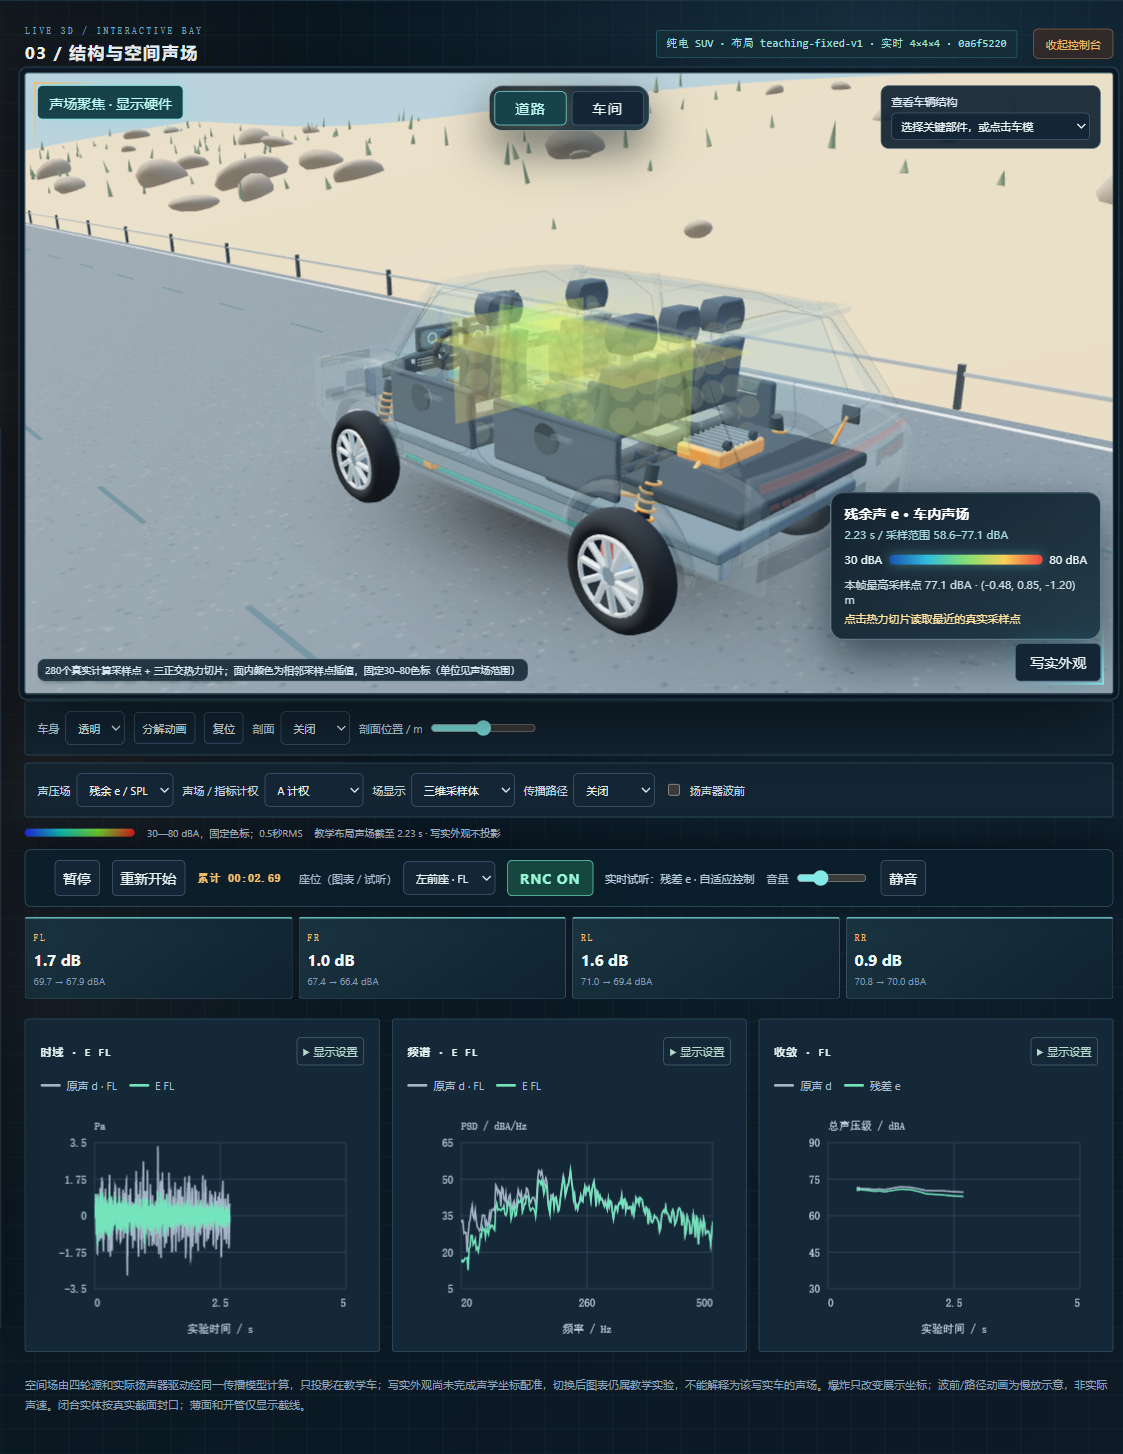
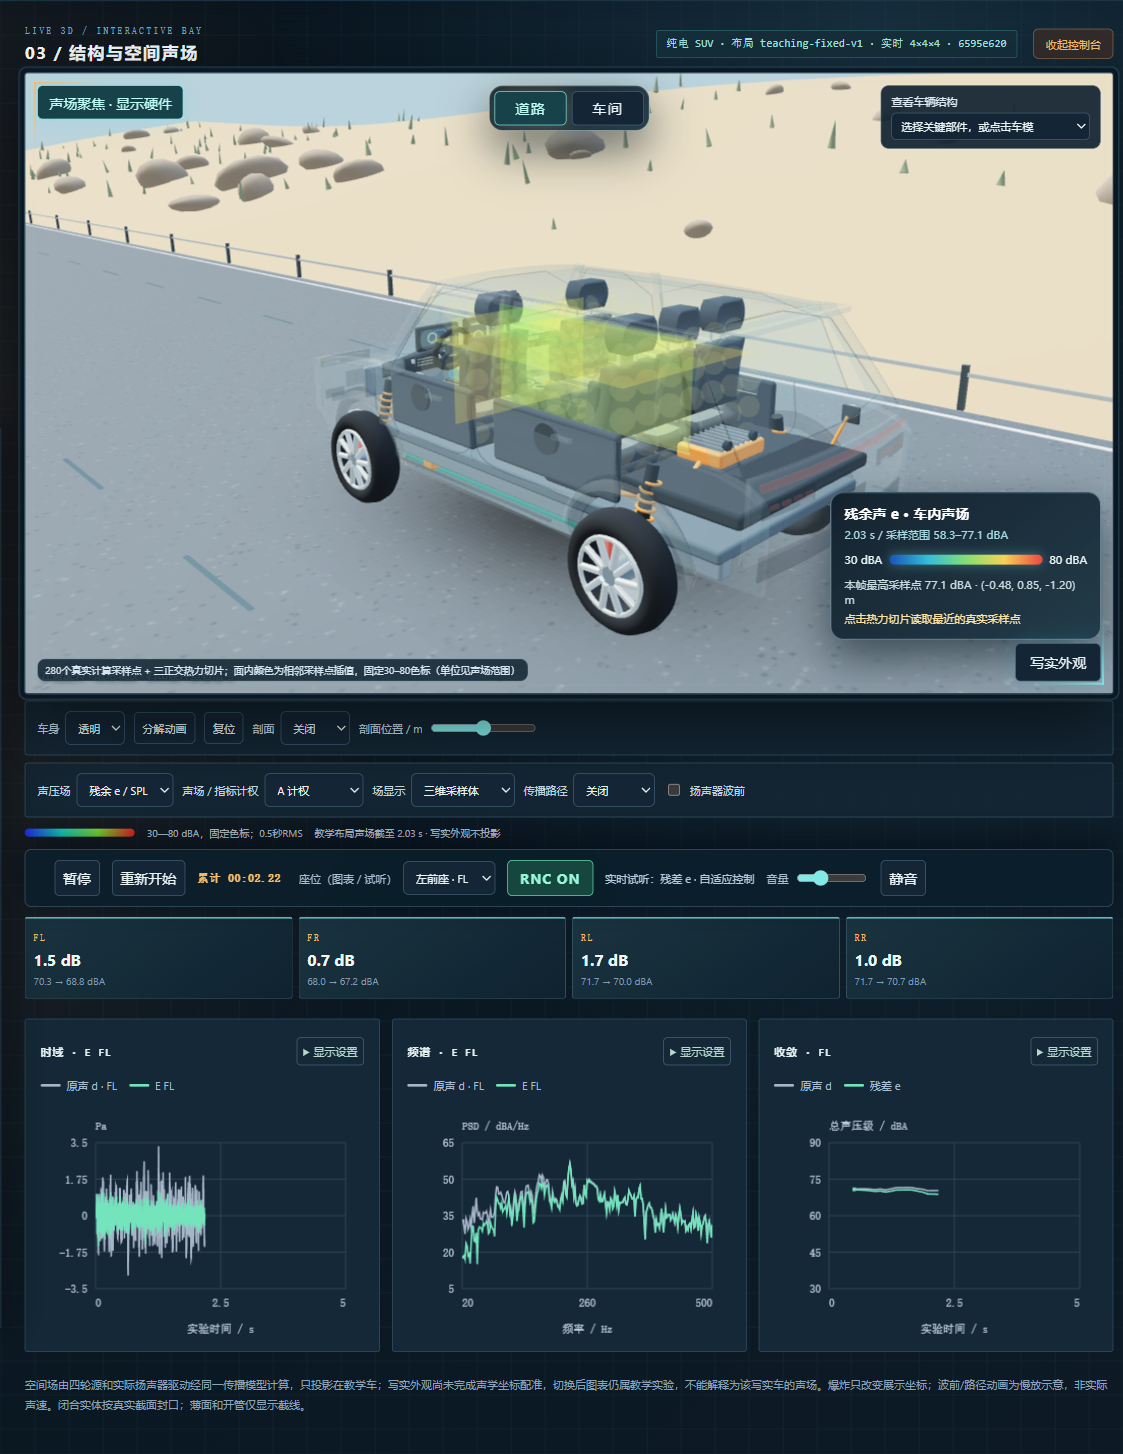
Reject mismatched layouts in calculation results and live packets
Role: A1

Task: A1-FULL-013

Identity-Source: user-declared

diff --git a/tests/a1-lab-engine.test.ts b/tests/a1-lab-engine.test.ts
@@ -21,26 +21,29 @@ function setup(t: TestContext) {
   t.after(() => { if (previous) Object.defineProperty(globalThis, 'Worker', previous); else Reflect.deleteProperty(globalThis, 'Worker'); });
   return createLabEngine();
 }
+const packetFor = (runId: string, marker: string, layoutId = TEACHING_LAYOUT_ID) => ({
+  marker, chunk: { runId }, snapshot: { result: { runId, config: { layoutId } } },
+});
 
 test('live Worker cancellation rejects pending work and late old errors cannot kill the new run', async t => {
   const engine = setup(t), config = defaultLabConfig();
   const first = engine.startLive(config, 'first'), old = FakeWorker.instances.at(-1)!;
-  old.receive({ type: 'ready', runId: 'first' }); await first;
+  old.receive({ type: 'ready', runId: 'first', layoutId: TEACHING_LAYOUT_ID }); await first;
   const chunk = engine.pullLive(400), field = engine.field(1, [[0, 1, 0]]), control = engine.setLiveRnc(false);
   const chunkError = assert.rejects(chunk, /实验已更换/), fieldError = assert.rejects(field, /实验已更换/), controlError = assert.rejects(control, /实验已更换/);
   const second = engine.startLive(config, 'second'), current = FakeWorker.instances.at(-1)!;
   await Promise.all([chunkError, fieldError, controlError]); assert.equal(old.terminated, true);
   old.onerror?.({ message: 'retired worker error' }); old.receive({ type: 'error', message: 'obsolete', runId: 'first' });
-  current.receive({ type: 'ready', runId: 'second' }); await second;
+  current.receive({ type: 'ready', runId: 'second', layoutId: TEACHING_LAYOUT_ID }); await second;
   assert.equal(current.terminated, false);
   const next = engine.pullLive(200), id = current.messages.at(-1).id;
-  const packet = { marker: 'current data' }; current.receive({ type: 'chunk', id, runId: 'second', packet });
+  const packet = packetFor('second', 'current data'); current.receive({ type: 'chunk', id, runId: 'second', packet });
   assert.equal(await next, packet); engine.cancel();
 });
 
 test('field failure is recoverable but a processor failure rejects every pending query', async t => {
   const engine = setup(t), started = engine.startLive(defaultLabConfig(), 'live'), worker = FakeWorker.instances.at(-1)!;
-  worker.receive({ type: 'ready', runId: 'live' }); await started;
+  worker.receive({ type: 'ready', runId: 'live', layoutId: TEACHING_LAYOUT_ID }); await started;
   const field = engine.field(0, [[0, 1, 0]]), fieldId = worker.messages.at(-1).id;
   const failure = assert.rejects(field, /history expired/);
   worker.receive({ type: 'error', id: fieldId, runId: 'live', message: 'history expired' }); await failure;
@@ -56,7 +59,7 @@ test('start cancellation and foreign run identities fail explicitly; batch mode 
   const engine = setup(t), started = engine.startLive(defaultLabConfig(), 'pending');
   const failure = assert.rejects(started, /已取消/); engine.cancel(); await failure;
   const batch = engine.calculate(defaultLabConfig(), 'batch'), worker = FakeWorker.instances.at(-1)!;
-  worker.receive({ type: 'result', runId: 'batch', result: { runId: 'batch' } }); await batch;
+  worker.receive({ type: 'result', runId: 'batch', result: { runId: 'batch', config: { layoutId: TEACHING_LAYOUT_ID } } }); await batch;
   await assert.rejects(engine.pullLive(), /不是实时/);
   await assert.rejects(engine.setLiveRnc(false), /不是实时/);
   const field = engine.field(1, [[0, 1, 0]]), fieldError = assert.rejects(field, /其他实验/);
@@ -66,7 +69,7 @@ test('start cancellation and foreign run identities fail explicitly; batch mode 
 
 test('live RNC control returns the exact sample boundary and a rejected switch preserves the running worker', async t => {
   const engine = setup(t), started = engine.startLive(defaultLabConfig(), 'switch'), worker = FakeWorker.instances.at(-1)!;
-  worker.receive({ type: 'ready', runId: 'switch' }); await started;
+  worker.receive({ type: 'ready', runId: 'switch', layoutId: TEACHING_LAYOUT_ID }); await started;
   const change = engine.setLiveRnc(false), message = worker.messages.at(-1);
   assert.equal(message.type, 'rnc'); assert.equal(message.enabled, false);
   worker.receive({ type: 'rnc', id: message.id, runId: 'switch', change: { enabled: false, effectiveSample: 12345 } });
@@ -75,7 +78,7 @@ test('live RNC control returns the exact sample boundary and a rejected switch p
   const failure = assert.rejects(rejected, /已结束/);
   worker.receive({ type: 'error', id, runId: 'switch', message: '实时实验已结束' }); await failure;
   assert.equal(worker.terminated, false);
-  const next = engine.pullLive(200), packet = { marker: 'still running' };
+  const next = engine.pullLive(200), packet = packetFor('switch', 'still running');
   worker.receive({ type: 'chunk', id: worker.messages.at(-1).id, runId: 'switch', packet });
   assert.equal(await next, packet); engine.cancel();
 });
@@ -84,18 +87,19 @@ test('legacy layout is stamped and unimplemented layouts fail before replacing a
   const engine = setup(t), legacy = defaultLabConfig(); delete legacy.layoutId;
   const started = engine.startLive(legacy, 'legacy'), worker = FakeWorker.instances.at(-1)!;
   assert.equal(worker.messages[0].config.layoutId, TEACHING_LAYOUT_ID);
-  worker.receive({ type: 'ready', runId: 'legacy' }); await started;
+  worker.receive({ type: 'ready', runId: 'legacy', layoutId: TEACHING_LAYOUT_ID }); await started;
   await assert.rejects(engine.calculate({ ...legacy, layoutId: 'showroom-unverified-v1' }, 'wrong'), /尚未接入声学路径/);
   assert.equal(FakeWorker.instances.length, 1);
   assert.equal(worker.terminated, false);
   const chunk = engine.pullLive(200);
-  worker.receive({ type: 'chunk', id: worker.messages.at(-1).id, runId: 'legacy', packet: { marker: 'preserved' } });
-  assert.deepEqual(await chunk, { marker: 'preserved' }); engine.cancel();
+  const preserved = packetFor('legacy', 'preserved');
+  worker.receive({ type: 'chunk', id: worker.messages.at(-1).id, runId: 'legacy', packet: preserved });
+  assert.deepEqual(await chunk, preserved); engine.cancel();
 });
 
 test('field frames without the active physical layout are rejected without killing the experiment', async t => {
   const engine = setup(t), started = engine.startLive(defaultLabConfig(), 'layout-field'), worker = FakeWorker.instances.at(-1)!;
-  worker.receive({ type: 'ready', runId: 'layout-field' }); await started;
+  worker.receive({ type: 'ready', runId: 'layout-field', layoutId: TEACHING_LAYOUT_ID }); await started;
   for (const layoutId of ['other-asset-v1', undefined]) {
     const field = engine.field(1, [[0, 1, 0]]), id = worker.messages.at(-1).id;
     const failure = assert.rejects(field, /物理布局身份/);
@@ -107,4 +111,24 @@ test('field frames without the active physical layout are rejected without killi
   worker.receive({ type: 'field', id, runId: 'layout-field', frame });
   assert.equal(await field, frame);
   engine.cancel();
+});
+
+test('batch results and live packets cannot switch physical layout inside an accepted run', async t => {
+  const engine = setup(t), config = defaultLabConfig();
+  const batch = engine.calculate(config, 'batch-layout'), batchWorker = FakeWorker.instances.at(-1)!;
+  const rejectedBatch = assert.rejects(batch, /计算结果物理布局身份/);
+  batchWorker.receive({ type: 'result', runId: 'batch-layout', result: { runId: 'batch-layout', config: { layoutId: 'other-asset-v1' } } });
+  await rejectedBatch; assert.equal(batchWorker.terminated, true);
+
+  const live = engine.startLive(config, 'live-layout'), liveWorker = FakeWorker.instances.at(-1)!;
+  const rejectedReady = assert.rejects(live, /实时实验物理布局身份/);
+  liveWorker.receive({ type: 'ready', runId: 'live-layout', layoutId: 'other-asset-v1' });
+  await rejectedReady; assert.equal(liveWorker.terminated, true);
+
+  const retry = engine.startLive(config, 'live-valid'), worker = FakeWorker.instances.at(-1)!;
+  worker.receive({ type: 'ready', runId: 'live-valid', layoutId: TEACHING_LAYOUT_ID }); await retry;
+  const chunk = engine.pullLive(200), id = worker.messages.at(-1).id;
+  const rejectedChunk = assert.rejects(chunk, /实时数据包.*身份/);
+  worker.receive({ type: 'chunk', id, runId: 'live-valid', packet: packetFor('live-valid', 'wrong layout', 'other-asset-v1') });
+  await rejectedChunk; assert.equal(worker.terminated, true);
 });

diff --git a/src/integration/lab-engine.ts b/src/integration/lab-engine.ts
@@ -18,12 +18,12 @@ export function createLabEngine() {
       rejectStart = reject;
       let active: Worker;
       try { active = new Worker(new URL('./lab.worker.ts', import.meta.url), { type: 'module' }); }
-      catch (error) { rejectStart = null; mode = null; reject(error); return; }
+      catch (error) { rejectStart = null; mode = null; activeLayoutId = ''; reject(error); return; }
       worker = active;
       const fail = (error: Error) => {
         if (worker !== active) return;
         rejectStart?.(error); rejectStart = null;
-        active.terminate(); worker = null; mode = null;
+        active.terminate(); worker = null; mode = null; activeLayoutId = '';
         pending.forEach(p => p.reject(error)); pending.clear();
       };
       active.onmessage = ({ data }) => {
@@ -31,12 +31,17 @@ export function createLabEngine() {
         if (data.runId !== undefined && data.runId !== runId) { fail(new Error('计算返回了其他实验的数据')); return; }
         if (data.type === 'result' && kind === 'batch') {
           if (data.result?.runId !== id) { fail(new Error('实验标识不匹配')); return; }
+          if (data.result?.config?.layoutId !== activeLayoutId) { fail(new Error('计算结果物理布局身份与启动配置不一致')); return; }
           rejectStart = null; resolve(data.result);
         } else if (data.type === 'ready' && kind === 'live') {
+          if (data.layoutId !== activeLayoutId) { fail(new Error('实时实验物理布局身份与启动配置不一致')); return; }
           rejectStart = null; resolve(undefined as T);
         } else if (data.type === 'field' || data.type === 'chunk' || data.type === 'rnc') {
           const request = pending.get(data.id);
           if (request && request.kind === data.type) {
+            if (data.type === 'chunk' && (data.packet?.chunk?.runId !== runId || data.packet?.snapshot?.result?.runId !== runId || data.packet?.snapshot?.result?.config?.layoutId !== activeLayoutId)) {
+              fail(new Error('实时数据包的实验或物理布局身份不一致')); return;
+            }
             pending.delete(data.id);
             if (data.type === 'field' && data.frame?.layoutId !== activeLayoutId) request.reject(new Error('声场物理布局身份与当前实验不一致，已拒绝显示'));
             else request.resolve(data.type === 'field' ? data.frame : data.type === 'rnc' ? data.change : data.packet);

diff --git a/src/integration/lab.worker.ts b/src/integration/lab.worker.ts
@@ -24,7 +24,7 @@ self.onmessage = async ({ data }) => {
       const config: LabConfig = { ...data.config, layoutId };
       result = null; runId = data.runId;
       live = createLabStream(config, runId, LAB_LIVE_HISTORY_SAMPLES, await loadSource(config));
-      self.postMessage({ type: 'ready', runId });
+      self.postMessage({ type: 'ready', runId, layoutId });
     } else if (data.type === 'chunk') {
       if (!live) throw new Error('实时计算尚未启动');
       const chunk = live.process(data.sampleCount);

diff --git a/docs/evidence/A1/A1-FULL-013/README.md b/docs/evidence/A1/A1-FULL-013/README.md
@@ -16,7 +16,9 @@
 
 正式 Worker 在预计算和实时取场时，把该实验已校验的 `layoutId` 写入 `FieldFrame`；integration 对缺失或不同于当前实验的场帧只拒绝该查询，不终止仍在运行的实验。A1 页面在送入 viewer 前再次核对场帧与当前结果配置的身份，不一致或查询失败会清除旧场，避免留下上一布局的颜色。`FieldFrame.layoutId` 暂为可选以兼容 B 纯函数的既有调用；**正式 Worker 传输必须携带**，B 纯函数的非 Worker 入口仍须在新布局开放前完成自身身份校验。A2 viewer 无需改动，当前仍只支持 `teaching-fixed-v1`。
 
-`tests/a1-lab-engine.test.ts` 的新增测试让伪 Worker 返回错误身份、缺失身份及正确身份三种场帧：前两种被拒且 Worker 保持运行，正确帧可继续读取。`pnpm check` 的类型/边界/全仓测试/生产构建通过。真实 Chromium 在同一 BEV 默认工况下分别运行 10 秒预计算并定位末尾、实时运行约 2.5 秒，场状态为“教学布局声场截至 10.00 s / 2.23 s”，主舞台均显示 `teaching-fixed-v1`，页面脚本异常 0；[复现脚本](qa-field-layout.playwright-cli.js)、[原始结果](qa-field-layout.result.json)、[预计算整台截图](layout-field-identity-replay.png)与[实时整台截图](layout-field-identity-live.png)保存了正常帧未被误挡的证据。该检查不证明将来的写实布局已接入，也不代替目标核显、实物声音或长稳验收。
+后续把校验前移到数据入口：预计算结果的 `config.layoutId` 必须等于启动身份；实时 `ready` 回应明确携带身份；每个实时 chunk 的运行 ID、快照运行 ID 和快照布局身份都要匹配。结果/数据包错配会终止该计算线程，不让信号、试听或图表先于场帧校验接受异布局数据；场帧错配仍只拒单次场查询。正式 Worker 的 `ready` 已携带身份，不要求 B 组改变计算输出格式。伪 Worker 测试分别覆盖批量结果、实时启动确认、数据包和场帧的错配，以及仍可用的正确数据。
+
+`pnpm check` 的类型/边界/133 项全仓测试/生产构建通过。最新真实 Chromium 在同一 BEV 默认工况下分别运行 10 秒预计算并定位末尾、实时运行约 2.2 秒，场状态为“教学布局声场截至 10.00 s / 2.03 s”，主舞台均显示 `teaching-fixed-v1`，页面脚本异常 0；[复现脚本](qa-field-layout.playwright-cli.js)、[原始结果](qa-field-layout.result.json)、[预计算整台截图](layout-field-identity-replay.png)与[实时整台截图](layout-field-identity-live.png)保存了正常结果与场帧未被误挡的证据。该检查不证明将来的写实布局已接入，也不代替目标核显、实物声音或长稳验收。
 
 ## 后续 A2/B 接入条件
 

diff --git a/开发记录.md b/开发记录.md
@@ -4,6 +4,8 @@
 
 ## 当前状态
 
+**2026-09-29 / A1 / A1-FULL-013 结果与流式包布局身份校验**：Role: A1；Identity-Source: user-declared；执行者 Codex 代 A1。继续同一 PR #38：integration 现在拒绝 `config.layoutId` 与启动布局不符的预计算结果，实时 `ready` 回执带布局身份，流式包的 chunk/run、snapshot/run 与 snapshot/config 布局均须一致；错配终止当前 Worker，不让图表或试听先接受异布局数据。新伪 Worker 测试覆盖三类错配，旧正确流程保持；`pnpm check` 类型/边界/133项测试/生产构建通过，真实 Chromium BEV 预计算10.00秒与实时约2.2秒连同声场正常、0页面脚本异常，[复现和截图](docs/evidence/A1/A1-FULL-013/README.md)。作为 A1 指定集成协调者改 integration，正式 Worker 的 `ready` 增加身份字段；A2/B 源码、旧 fixture 未改。新写实布局仍禁用，B1 共管接口审查、A2 坐标与 B 路径重算仍待完成。
+
 **2026-09-29 / A1 / A1-FULL-013 声场帧布局身份闭环**：Role: A1；Identity-Source: user-declared；执行者 Codex 代 A1。前批启动/案例身份保护之外，正式 Worker 现为预计算和实时 `FieldFrame` 标记布局，integration 对缺失/错误身份的场帧只拒绝该查询，A1 页面不向 viewer 投影错配帧并清除旧场。作为指定集成协调者修改 shared/integration，原因是原场帧只有时间/点位，未来同车布局接入存在串场风险；新增可选字段兼容 B 纯函数，但正式 Worker 帧必填，不改 A2/B 源码。A1 伪 Worker 测试验证拒收后实验仍运行；`pnpm check` 类型/边界/全仓测试/构建通过；真实 Chromium BEV 10秒预计算与约2.5秒实时场均正常显示教学身份、0页面脚本异常，[脚本和截图](docs/evidence/A1/A1-FULL-013/README.md)。写实布局、B 数值入口身份校验和四车同车验收仍待 A2/B 接入；PR #38 需 B1 复核共管字段后合并。
 
 **2026-09-29 / A1 / A1-FULL-013 ICE 同车坐标定量复核**：Role: A1；Identity-Source: user-declared；执行者 Codex 代 A1。对照 A2 PR #30 固定提交 `d8e2717` 的 ICE 资产几何审计与本分支教学坐标，前排 MIC 到头枕带中心各 0.795 m，后排各 0.355 m；四轮源相对资产轮心的水平偏移为 0.196～0.223 m。头枕带中心/轮心只作不一致性检查，绝不冒充新声学安装点；写实资产尚缺后门及四门扬声器的核实实体/坐标。[口径、边界和 A2/B 接入条件](docs/evidence/A1/A1-FULL-013/README.md)。本批只增加 A1 证据/交接与根记录，不改 A2/B/运行代码；`git diff --check` 通过，运行代码沿用前批 131/131 全仓检查。A1 #38 继续保持旧布局防误用，B1 共管接口审查和同车坐标/路径接入未完成。

diff --git a/docs/coordination/A1.md b/docs/coordination/A1.md
@@ -14,6 +14,7 @@
 - 写实入口说明（2026-09-29）：A1 页面在声场状态与帮助文案中明确写实外观不投影教学布局声场，避免切换外观后把保留的实验图表误读为该车场值；[Chromium 复核截图](../evidence/A1/A1-FULL-013/four-vehicle/ice-showroom-clarified.png)。只改 A1 页面，不改 A2 viewer 或 B 数值；同车配准仍是下一阶段依赖。
 - ICE 布局定量复核（2026-09-29）：对照 A2 #30 固定资产审计与当前教学常量，前排 MIC 距头枕带中心各 0.795 m、后排各 0.355 m；旧轮端源与写实轮心水平偏移 0.196～0.223 m。该距离只证明不能沿用旧布局，不是新安装点；[计算口径与四门缺口](../evidence/A1/A1-FULL-013/README.md)供 A2/B 后续交接。当前 PR #38 仍只开放教学布局，未擅自启用写实计算。
 - 场帧身份闭环（2026-09-29）：PR #38 的同一任务继续让正式 Worker 在预计算/实时场帧携带当前 `layoutId`，integration 和 A1 页面拒绝缺失/错配身份并清除旧场，拒绝单帧不终止实验。A1 测试、`pnpm check` 和真实 Chromium 两模式场显示通过；[复现与截图](../evidence/A1/A1-FULL-013/README.md)。共享 `FieldFrame` 新增可选字段供旧 B 纯函数兼容，正式 Worker 传输必须携带；新车型物理坐标与 B 纯函数校验仍待 A2/B 完成。
+- 结果与流式包身份补齐（2026-09-29）：同一 #38 任务在 integration 进一步核对预计算结果配置、实时启动回执和每个流式包的运行/布局身份，错配终止该实验，避免图表/试听先接受错误布局。`pnpm check` 133/133，Chromium 预计算 10.00 秒、实时约2.2秒与声场正常；[原始结果](../evidence/A1/A1-FULL-013/qa-field-layout.result.json)。A2/B 源码未改，接口仍待 B1 审查。
 - 精确下一步：核对 PR #38 最新文档 HEAD 的云端检查，由 B1 复核共管布局接口后审查合并；随后 A2 提供已核实资产安装点、B 组按新布局重验传播与场，A1 才能开放新布局选择并做同版组合验收。目标核显、实物音画、第二机离线与正式包另验。
 
 ## A1-FULL-012 / 案例评审卡与判断边界（2026-09-28）
